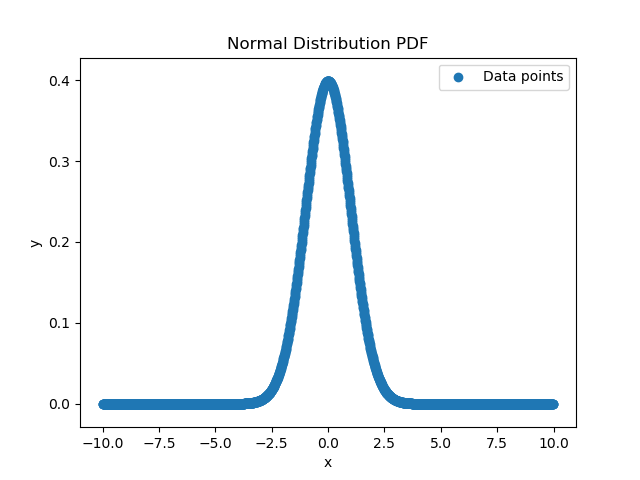
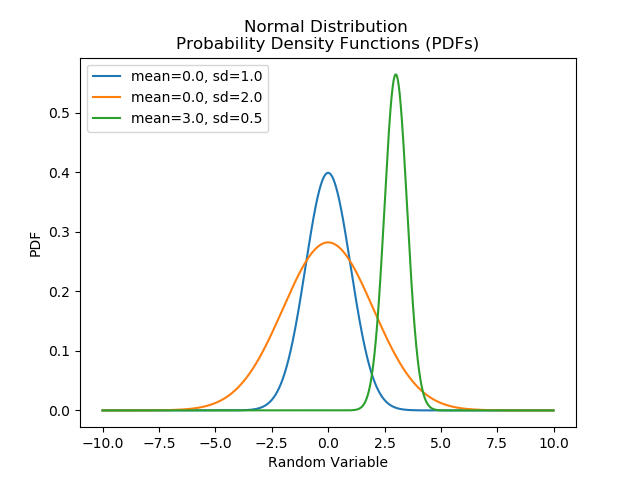
Updated normal distribution PDF graphs.

diff --git a/Mathematics/Statistics/NormalDistribution/main.py b/Mathematics/Statistics/NormalDistribution/main.py
@@ -8,21 +8,23 @@ def normal_distribution_pdf(x, mean, sd):
     pd = scalar_fraction*math.exp(exp_fraction)
     return pd
 
+def add_nd_to_plot(mean, sd, ax):
+    x_a = np.arange(-10.0, 10.0, 0.01)
+    pdf_a = [ normal_distribution_pdf(x, mean, sd) for x in x_a ]
+    pdf_a = np.array(pdf_a)
+    points = ax.plot(x_a, pdf_a, label=f'mean={mean}, sd={sd}')
+
 if __name__ == '__main__':
 
-    MEAN = 0.0
-    SD = 1.0
-
-    x_a = np.arange(-10.0, 10.0, 0.01)
-    pdf_a = [ normal_distribution_pdf(x, MEAN, SD) for x in x_a ]
-    pdf_a = np.array(pdf_a)
+    MEANS = [0.0, 0.0, 3.0]
+    SDS = [1.0, 2.0, 0.5]
 
     fig, ax = plt.subplots()
+    for idx in range(len(MEANS)):
+        add_nd_to_plot(MEANS[idx], SDS[idx], ax)
 
-    points = ax.scatter(x_a, pdf_a, label='Data points')
-
-    plt.title('Normal Distribution PDF')
-    plt.xlabel('x')
-    plt.ylabel('y')
+    plt.title('Normal Distribution \nProbability Density Functions (PDFs)')
+    plt.xlabel('Random Variable')
+    plt.ylabel('PDF')
     ax.legend()
     plt.savefig('graph.png')
